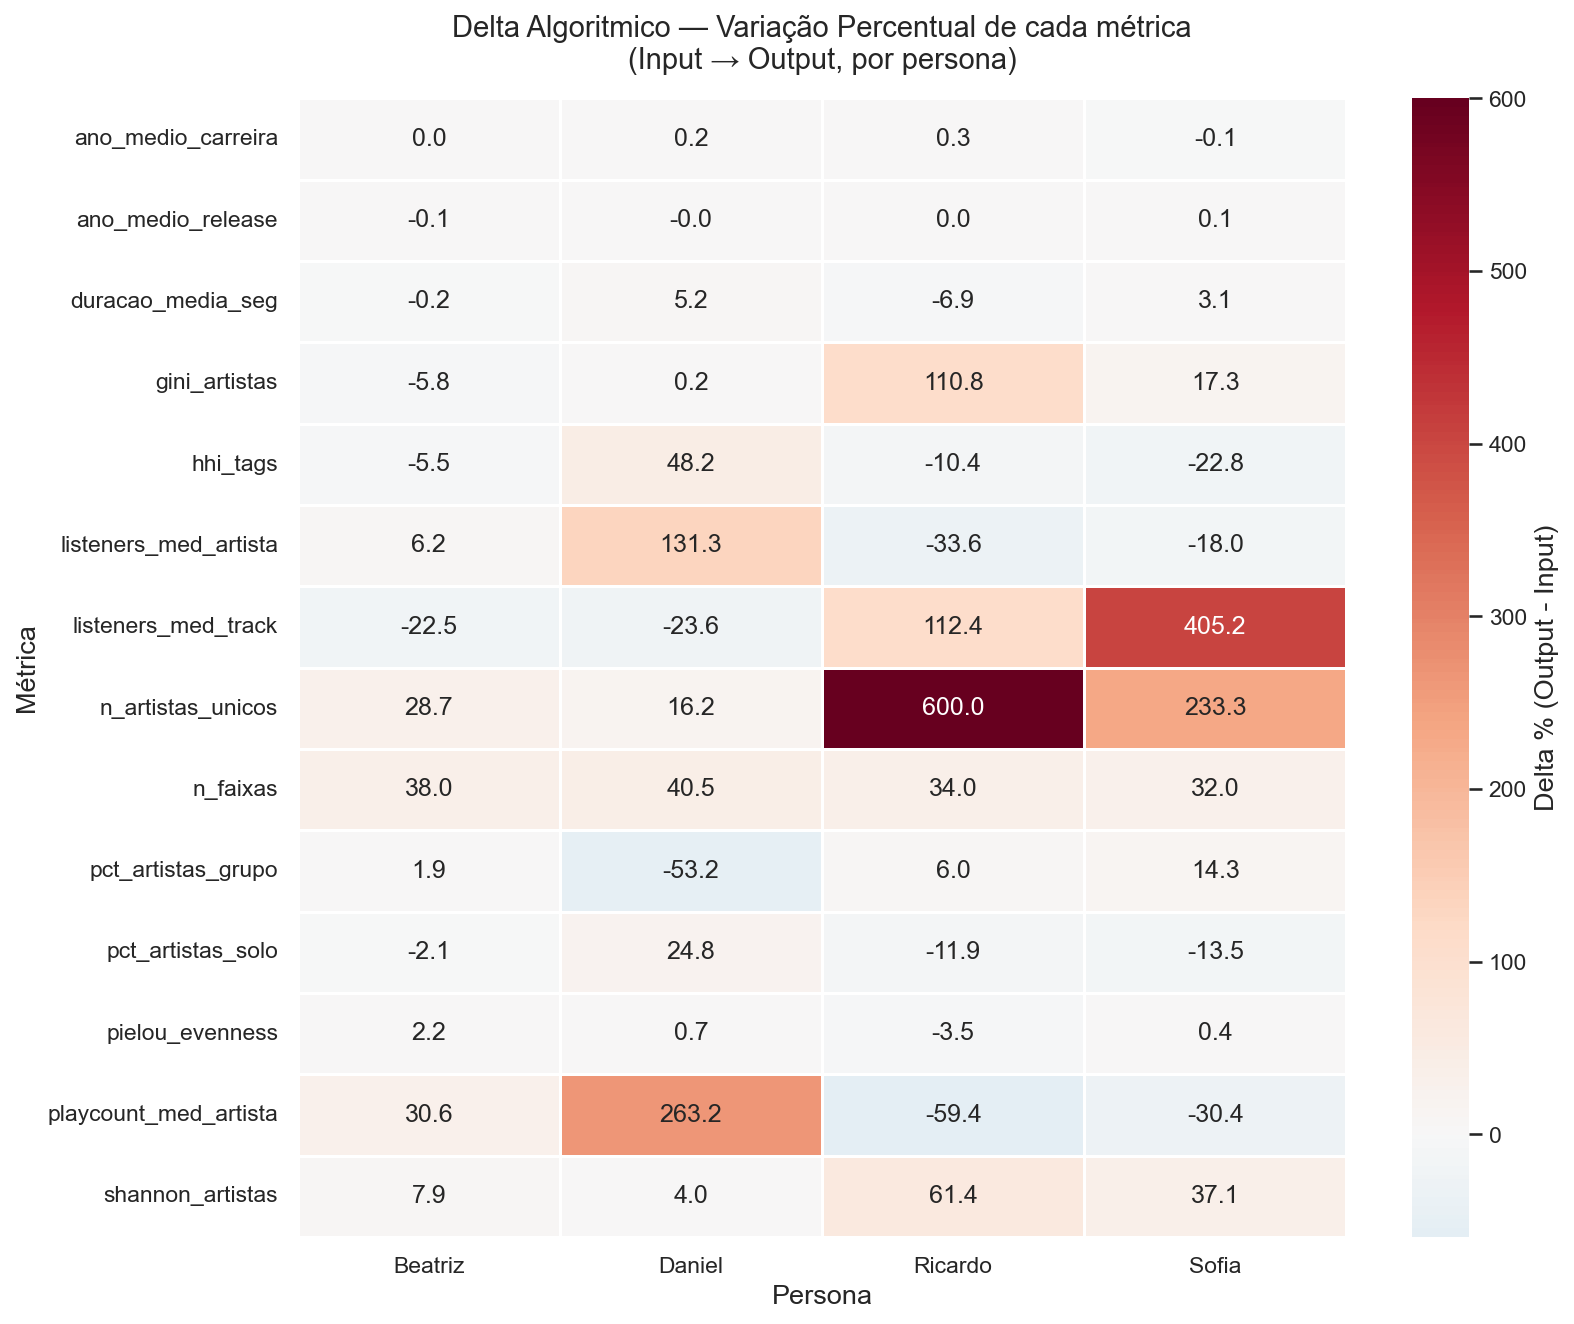
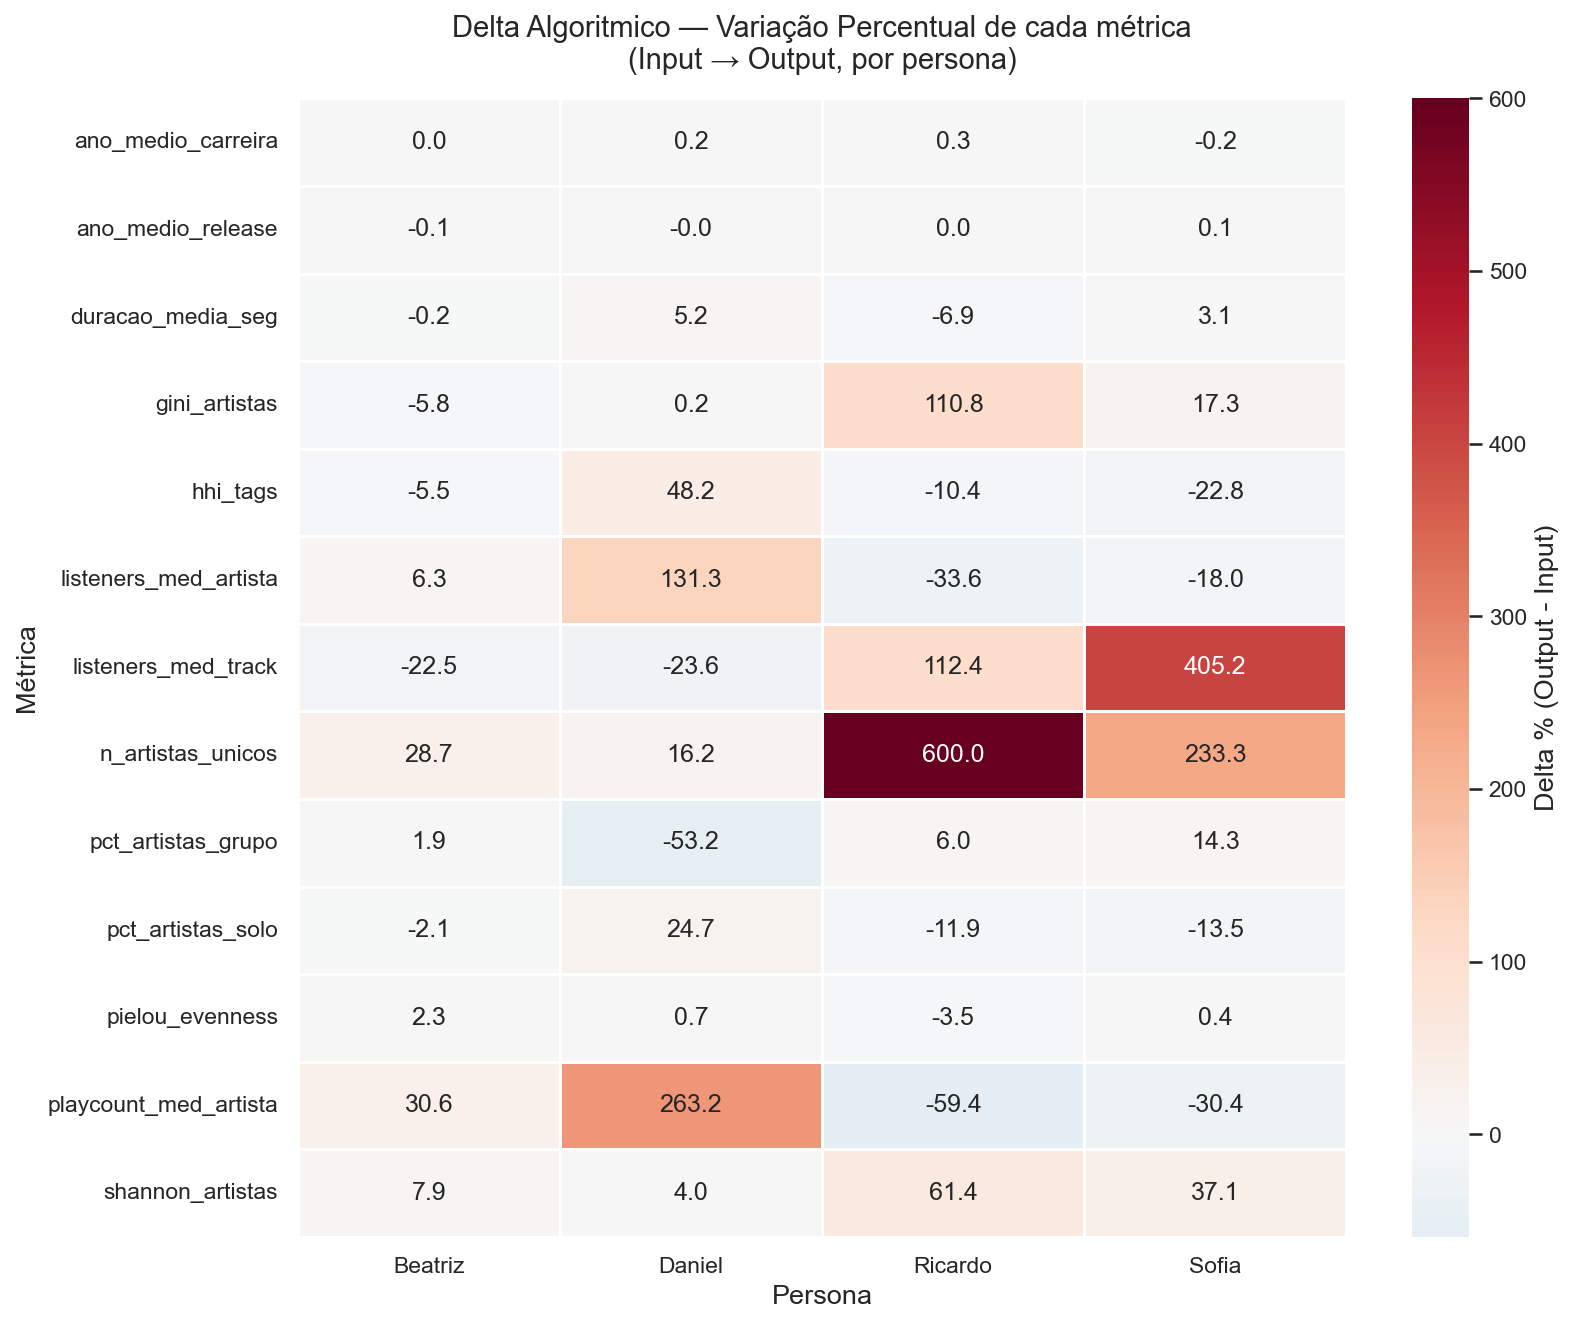
fix(tcc): heatmap com 13 metricas de distorcao e sem arredondamento duplo
- Heatmap exclui n_faixas (indicador de volume de coleta, nao de distorcao),
  ficando com as 13 metricas de distorcao, alinhado a Tabela de Delta do texto.
- delta_metrics passa a gravar Delta_Percentual com 4 casas: o heatmap (fmt .1f)
  arredondava sobre um valor ja arredondado a 2 casas e divergia da tabela em 4
  celulas na fronteira .x5 (Pielou/Beatriz, listeners/artista/Beatriz,
  %Solo/Daniel, Ano-Carreira/Sofia). Heatmap regenerado, agora identico a Tabela 10.

diff --git a/src/analysis/build_comparison_graphs.py b/src/analysis/build_comparison_graphs.py
@@ -76,9 +76,14 @@ def get_genre_string(row):
 
 
 def graf_1_heatmap_delta(pivot_df):
-    """Heatmap geral do delta percentual por métrica × persona."""
+    """Heatmap geral do delta percentual por métrica × persona.
+
+    Exclui n_faixas: é indicador de VOLUME de coleta (fixado pelo desenho
+    amostral), não de distorção distribucional. Mantém as 13 métricas de
+    distorção, alinhando o painel à Tabela de Delta Algorítmico do texto.
+    """
     print("  1. Heatmap Delta Percentual")
-    df = pivot_df.set_index("Metrica")
+    df = pivot_df.set_index("Metrica").drop(index="n_faixas", errors="ignore")
     fig, ax = plt.subplots(figsize=(11, 9))
     sns.heatmap(df, annot=True, fmt=".1f", cmap="RdBu_r", center=0,
                 cbar_kws={"label": "Delta % (Output - Input)"}, ax=ax,

diff --git a/src/analysis/build_delta_metrics.py b/src/analysis/build_delta_metrics.py
@@ -196,7 +196,10 @@ def main():
                 "Input": round(iv, 4) if not pd.isna(iv) else None,
                 "Output": round(ov, 4) if not pd.isna(ov) else None,
                 "Delta_Absoluto": round(delta_abs, 4) if delta_abs is not None else None,
-                "Delta_Percentual": round(delta_pct, 2) if delta_pct is not None else None,
+                # 4 casas evitam arredondamento duplo: o heatmap (fmt=".1f") e as
+                # tabelas do texto arredondam a 1 casa a partir do valor cheio, e
+                # nao de um valor ja arredondado a 2 casas (que divergia em .x5).
+                "Delta_Percentual": round(delta_pct, 4) if delta_pct is not None else None,
             })
             iv_s = f"{iv:.3f}" if not pd.isna(iv) else "NA"
             ov_s = f"{ov:.3f}" if not pd.isna(ov) else "NA"